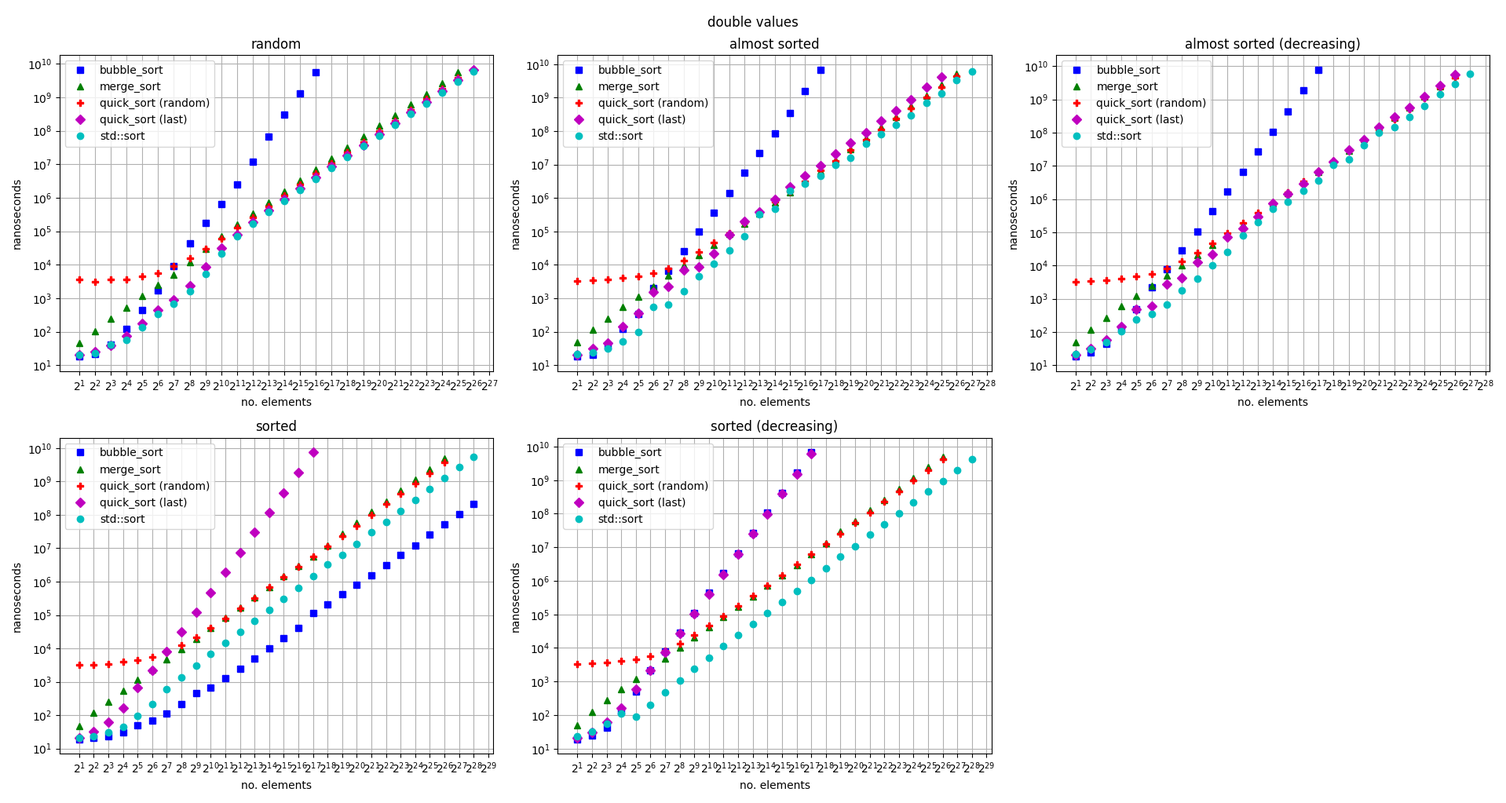
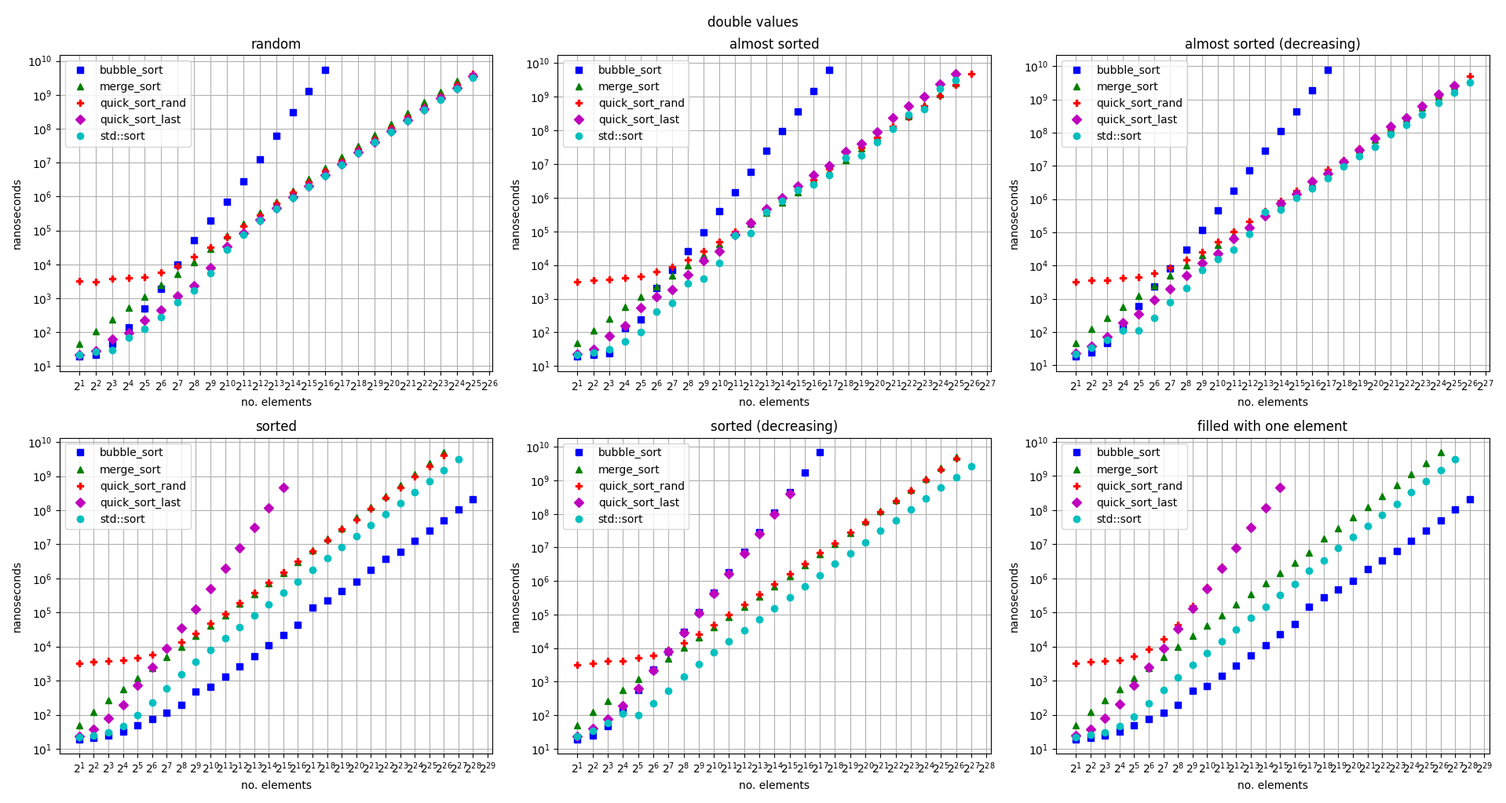
redo benchmarks with input limits

diff --git a/dotpy/unsigned.py b/dotpy/unsigned.py
@@ -14,8 +14,8 @@ plt.grid(True)
 plt.xlabel('no. elements')
 plt.ylabel('nanoseconds')
 plt.title('random')
-plt.plot([2**x for x in range(1, 29)],[41,46,53,71,101,173,291,531,1080,2102,6414,22766,53739,119536,250547,516166,1040570,2353317,5313266,11538258,29789007,75242484,167184438,350951163,725881028,1468671491,2973528957,7294009927,],'bs',[2**x for x in range(1, 27)],[44,56,74,121,227,481,1015,2307,9857,34396,93215,212377,467323,985468,2110536,4376457,9179291,19491924,40461689,83247779,172634610,361186392,743220296,1543068009,3244058954,6769163137,],'g^',[2**x for x in range(1, 17)],[18,23,37,118,452,1770,8065,42553,157459,597666,2295272,10470892,58332083,274792403,1204376394,5058531105,],'rP',[2**x for x in range(1, 26)],[44,104,255,535,1170,2449,5250,11187,26478,72190,160765,348543,735653,1550375,3266603,6908823,14341330,30853445,64727040,135853788,286420936,595336591,1237968698,2591964678,5427277358,],'mD',[2**x for x in range(1, 26)],[3194,3314,3233,3863,4183,5752,8795,15192,28581,56519,116044,239332,510755,1063279,2250046,4689227,9876897,20693847,43227552,88287280,186286138,383699840,800000507,1669307099,3462455196,],'co',[2**x for x in range(1, 27)],[21,28,37,72,170,375,786,2084,8706,28387,73602,168018,361224,827274,1750349,3743636,7639425,16666503,34453423,70162374,148775937,306916854,644498198,1344062530,2870240657,5928433629,],'yX',[2**x for x in range(1, 27)],[22,30,30,55,126,270,652,1466,3497,21098,68039,172011,388802,829159,1757725,3697362,7948505,17004352,35328349,71471668,152111099,320133680,661264651,1374593786,2872916453,5938822096,],'kh',)
-plt.legend(['count_sort', 'radix_sort', 'bubble_sort', 'merge_sort', 'quick_sort (random)', 'quick_sort (last)', 'std::sort', ])
+plt.plot([2**x for x in range(1, 28)],[59,66,78,98,141,226,367,683,1336,2671,6698,21620,56055,125687,269869,563137,1169563,2796932,6118936,11316448,31039316,77724763,171765344,362919284,748377738,1514858214,3055532159,],'bs',[2**x for x in range(1, 26)],[43,52,70,113,212,430,906,1878,10567,35300,90131,207931,441588,968504,2016315,4318402,9078465,19347733,38799105,81532041,168720340,363462212,725290362,1522276878,3163469666,],'g^',[2**x for x in range(1, 17)],[19,21,44,117,418,1664,8067,40353,157737,599462,2318769,11037921,58700019,273661956,1190484845,5028089534,],'rP',[2**x for x in range(1, 26)],[42,101,222,491,1088,2266,4718,10296,25387,67193,152117,330950,680962,1436238,3068181,6428472,13701501,28466068,59708979,123729865,258232998,542657038,1127823349,2373091398,4976608012,],'mD',[2**x for x in range(1, 26)],[3485,3285,3451,3891,4339,6064,9385,16737,31374,64651,135300,279882,585126,1241638,2544471,5433857,11071024,23304374,48121465,100976256,206815799,431262600,893012289,1872530269,3887753691,],'co',[2**x for x in range(1, 26)],[22,28,50,100,206,410,922,2067,6723,27370,71570,171508,382638,828200,1734746,3628839,7688128,16233626,33803150,71039544,148697169,307872926,638031173,1334366210,2813926444,],'yX',[2**x for x in range(1, 26)],[22,25,39,69,134,364,743,1747,3909,21445,69159,170785,385640,825258,1749131,3682420,7785758,16326373,34644231,71296470,148439891,310898576,643330971,1350136327,2825210316,],'kh',)
+plt.legend(['count_sort', 'radix_sort', 'bubble_sort', 'merge_sort', 'quick_sort_rand', 'quick_sort_last', 'std::sort', ])
 plt.subplot(232)
 plt.xscale('log', base=2)
 plt.yscale('log', base=10)
@@ -25,8 +25,8 @@ plt.grid(True)
 plt.xlabel('no. elements')
 plt.ylabel('nanoseconds')
 plt.title('almost sorted')
-plt.plot([2**x for x in range(1, 29)],[45,48,59,75,111,188,317,555,1101,2425,6864,23053,54125,118170,242150,482762,978282,2043797,4173731,8537869,18541138,38197037,75052383,157063528,303677278,608546726,1198555033,2717086464,],'bs',[2**x for x in range(1, 28)],[49,56,92,150,236,480,1110,2279,4633,14279,42134,96786,209825,445628,942766,1876689,3979549,8565823,16200070,34162879,69995088,141649016,289513107,595155037,1252409711,2570698698,5082250143,],'g^',[2**x for x in range(1, 18)],[19,20,44,106,477,903,4438,22583,85983,332639,1292992,5084778,20142757,80289753,318342955,1357755359,5940720546,],'rP',[2**x for x in range(1, 27)],[46,114,271,578,1150,2396,4967,10186,20947,43093,88172,181451,376525,767105,1555798,3200292,6505862,13497938,29171093,61146597,124674727,258957070,531742518,1091908228,2266531842,4749923360,],'mD',[2**x for x in range(1, 27)],[3200,3472,3724,3950,4535,5663,7803,13090,23259,44797,89075,180983,365345,745928,1503975,3107151,6367821,13135197,26828885,53685255,110998129,228224204,469811051,952011396,1924453099,3969372890,],'co',[2**x for x in range(1, 26)],[21,31,44,96,247,1208,2975,3334,18916,22527,82975,178120,362562,948296,2156160,6497215,9156494,25321549,44078253,85681652,181260913,397508926,972542783,1921780624,3628866018,],'yX',[2**x for x in range(1, 28)],[22,25,32,49,135,212,754,2044,10178,8826,32112,74888,165020,396427,1082383,1794852,3582127,17480532,16299276,33668960,80338442,127883102,358885456,630204515,1268402302,2602566951,5098655363,],'kh',)
-plt.legend(['count_sort', 'radix_sort', 'bubble_sort', 'merge_sort', 'quick_sort (random)', 'quick_sort (last)', 'std::sort', ])
+plt.plot([2**x for x in range(1, 29)],[65,70,78,104,147,227,385,703,1364,2824,6767,21406,54501,123039,257025,525614,1055964,2258839,4425672,9308276,19459420,40622756,80279984,158712450,316501121,641852761,1273077687,2659098947,],'bs',[2**x for x in range(1, 27)],[53,61,88,137,247,461,978,1901,4335,15113,43253,102369,216579,447633,964196,1926804,3804718,8031819,16741965,33982186,67080185,140992932,283011133,601078434,1178023619,2513624812,],'g^',[2**x for x in range(1, 18)],[18,20,42,111,386,1143,5828,21474,81313,319278,1251153,5016603,20051812,80176393,319089306,1348676180,5750890779,],'rP',[2**x for x in range(1, 27)],[44,110,241,518,1077,2266,4636,9568,19608,40209,82283,169710,351523,715047,1432984,2939787,5915814,12223663,26586084,55566974,113565857,237004203,484355087,997173514,2074626359,4347055921,],'mD',[2**x for x in range(1, 27)],[3312,3449,3611,3851,4532,5615,8461,14179,26004,50815,102197,203904,419241,855637,1725375,3600960,7412513,15459336,31155889,64950463,133140117,281994354,559721917,1135949116,2343260623,4834251043,],'co',[2**x for x in range(1, 26)],[22,35,55,109,280,950,1305,3788,9169,32375,61181,146542,356146,875150,1615958,3514961,9033512,18193807,36794690,86463416,171719091,385274593,734135200,1634796907,3291828049,],'yX',[2**x for x in range(1, 27)],[22,25,31,47,116,262,1128,3604,4010,9643,33460,86658,194634,428941,954743,2049532,3415329,14179959,16323792,32522805,70014640,178588961,313276445,609621661,1449066590,4030910413,],'kh',)
+plt.legend(['count_sort', 'radix_sort', 'bubble_sort', 'merge_sort', 'quick_sort_rand', 'quick_sort_last', 'std::sort', ])
 plt.subplot(233)
 plt.xscale('log', base=2)
 plt.yscale('log', base=10)
@@ -36,8 +36,8 @@ plt.grid(True)
 plt.xlabel('no. elements')
 plt.ylabel('nanoseconds')
 plt.title('almost sorted (decreasing)')
-plt.plot([2**x for x in range(1, 29)],[42,50,58,78,113,187,310,567,1100,2184,7123,22990,53893,117893,237734,481420,968970,2079141,4181698,8548110,17934091,37531455,75063098,149162697,298883246,600734181,1203088127,2724014228,],'bs',[2**x for x in range(1, 28)],[45,62,94,128,263,512,1120,2306,5075,14752,46334,105824,229172,488944,992236,2087581,4243905,8980896,18958277,37511594,80501899,162452988,343392394,713125219,1419341015,2939882657,6063573136,],'g^',[2**x for x in range(1, 18)],[19,24,46,130,478,2244,8407,31978,124096,483012,1853775,7350570,29339469,117678041,469908851,1955733745,8248266255,],'rP',[2**x for x in range(1, 27)],[48,113,260,574,1207,2424,4869,9923,20659,42428,86924,175720,364777,749615,1500743,3085444,6411030,13356479,28495600,58271969,120941233,253589324,519523970,1076988739,2222440821,4612521877,],'mD',[2**x for x in range(1, 27)],[3408,3453,3696,3958,4586,5663,8168,13224,23711,45685,91987,184796,378353,772875,1558780,3230636,6516615,13175840,27442770,55387910,112407309,233131915,474194846,976845713,1990661670,4092029089,],'co',[2**x for x in range(1, 27)],[21,30,45,89,365,676,1371,3669,8646,23020,44894,109528,258573,569283,1177255,2728380,5481782,12320487,24831730,52580044,105858350,215207547,462762247,977542580,1997208740,4200591903,],'yX',[2**x for x in range(1, 28)],[22,28,48,89,200,358,609,1580,4284,8176,27284,75251,166955,345020,830386,2063542,3695526,7467371,19593823,45116167,72747260,137115050,295890644,643873397,1223494480,2629372572,5436496783,],'kh',)
-plt.legend(['count_sort', 'radix_sort', 'bubble_sort', 'merge_sort', 'quick_sort (random)', 'quick_sort (last)', 'std::sort', ])
+plt.plot([2**x for x in range(1, 29)],[65,69,79,105,151,238,434,748,1448,2793,7074,21844,55379,124405,257301,519714,1046789,2239851,4633573,9141095,19100336,39960671,80169852,158906319,318973573,636896526,1277161101,2678576993,],'bs',[2**x for x in range(1, 27)],[49,51,76,119,248,490,1021,2132,5080,16092,45865,105392,224555,490634,976464,1968249,4202886,8644084,18085685,36116323,74353376,157225884,320797185,682565117,1410802134,2913981617,],'g^',[2**x for x in range(1, 18)],[19,24,46,130,482,2241,8390,32539,124084,477336,1890587,7420089,30093036,121758335,485491354,2021638872,8238110192,],'rP',[2**x for x in range(1, 27)],[46,113,247,544,1123,2238,4695,9791,19716,40210,82580,170919,354967,726428,1471853,2983914,5963607,12544891,26531842,55867278,116085192,241744749,501677723,1031769966,2139371175,4488556791,],'mD',[2**x for x in range(1, 27)],[3370,3566,3672,4027,4657,6052,8895,15072,27626,54000,108455,221323,454772,922737,1891858,3817268,7924327,15827218,33245189,67922998,140383027,285963113,596864441,1209496557,2445032694,5205002845,],'co',[2**x for x in range(1, 27)],[23,36,61,98,261,781,2269,5100,9374,20404,44774,120288,271462,542064,1090436,2656024,5065654,11719499,24466540,49214044,103392977,225850906,451907361,921942749,1947031298,3952118190,],'yX',[2**x for x in range(1, 27)],[22,30,46,89,159,311,754,1635,4186,10667,48661,74797,190200,523775,804253,1788449,4210511,7493099,15207896,58877938,87281529,252056948,301258443,728802591,1436906117,2643295182,],'kh',)
+plt.legend(['count_sort', 'radix_sort', 'bubble_sort', 'merge_sort', 'quick_sort_rand', 'quick_sort_last', 'std::sort', ])
 plt.subplot(234)
 plt.xscale('log', base=2)
 plt.yscale('log', base=10)
@@ -47,8 +47,8 @@ plt.grid(True)
 plt.xlabel('no. elements')
 plt.ylabel('nanoseconds')
 plt.title('sorted')
-plt.plot([2**x for x in range(1, 29)],[44,48,63,75,131,191,322,582,1131,2358,4569,9347,19657,36269,77691,154171,321111,753874,1459370,4017468,8686483,18139744,27444625,54192293,105420412,211769356,426362773,1090994448,],'bs',[2**x for x in range(1, 29)],[49,59,79,130,232,462,1036,2250,4817,10160,21423,45302,95164,198287,419682,864022,1821706,3685097,7831264,16263981,33479079,70617157,148685354,307533335,636306660,1317407856,2729578127,5648098387,],'g^',[2**x for x in range(1, 29)],[19,20,23,28,44,62,100,173,325,631,1239,2406,4769,9664,19247,37879,77295,177665,354180,685453,1365506,2564558,5210373,10383637,20676415,41570984,84214738,170444440,],'rP',[2**x for x in range(1, 27)],[48,111,246,518,983,2140,4517,9162,18624,37881,76923,158190,323251,656580,1323334,2698863,5737321,11806613,24659159,51199271,105771157,220952221,453046504,941808112,1935371822,4009397546,],'mD',[2**x for x in range(1, 27)],[3345,3610,3678,3996,4271,5437,7688,12027,20779,40514,77443,156419,319095,647139,1331316,2735283,5454600,11096593,22570606,46186429,93806373,195652527,387848290,809842187,1634914405,3354802018,],'co',[2**x for x in range(1, 18)],[21,31,60,159,570,2160,8251,30820,119873,472170,1868637,7371409,29204751,115348606,451865720,1799355296,7182934439,],'yX',[2**x for x in range(1, 29)],[22,25,30,45,79,186,522,1238,2847,6391,13954,30146,64454,135235,288351,620641,1265175,2865258,6019352,12557862,26303120,55581988,116438259,245066828,512568325,1071526775,2239605292,4660963472,],'kh',)
-plt.legend(['count_sort', 'radix_sort', 'bubble_sort', 'merge_sort', 'quick_sort (random)', 'quick_sort (last)', 'std::sort', ])
+plt.plot([2**x for x in range(1, 29)],[66,70,86,111,166,264,452,827,1579,3201,6360,12488,25242,49761,100766,211682,419037,1088827,2627261,5430036,10638517,21317878,34194634,65903106,131024745,265575317,529453202,1160866758,],'bs',[2**x for x in range(1, 28)],[50,62,88,142,257,517,1124,2376,5060,10688,22244,47033,96811,197153,417244,848963,1769705,3620928,7483123,15603581,34137841,69107100,143291726,292614325,607941772,1256665086,2569981318,],'g^',[2**x for x in range(1, 29)],[19,20,23,28,44,63,99,177,325,619,1210,2410,4787,9551,19065,37759,75352,171809,339404,684260,1359202,2645282,5144921,10278441,20748579,41291824,83651188,169144394,],'rP',[2**x for x in range(1, 27)],[45,113,245,521,1061,2185,4476,9058,18287,37386,76051,152004,309525,627251,1283777,2583729,5242753,10894853,23484230,49614154,99263503,208658191,425643970,874431303,1812771775,3772491705,],'mD',[2**x for x in range(1, 27)],[3447,3705,3735,3992,4625,5845,8163,13376,24387,46140,92801,189817,386024,791232,1628124,3318524,6716935,13871960,28326157,56693593,120233930,239446415,503434708,1014082595,2066276433,4253930710,],'co',[2**x for x in range(1, 16)],[24,36,72,191,667,2298,8305,31180,120986,475926,1894070,7530406,29817982,114932397,454447002,],'yX',[2**x for x in range(1, 28)],[22,26,29,37,92,236,601,1491,3474,7851,17367,37913,82149,173516,376198,817227,1814016,3889022,8020836,17231850,35007857,74238574,157090927,327661749,690414607,1446437114,3023255683,],'kh',)
+plt.legend(['count_sort', 'radix_sort', 'bubble_sort', 'merge_sort', 'quick_sort_rand', 'quick_sort_last', 'std::sort', ])
 plt.subplot(235)
 plt.xscale('log', base=2)
 plt.yscale('log', base=10)
@@ -58,6 +58,17 @@ plt.grid(True)
 plt.xlabel('no. elements')
 plt.ylabel('nanoseconds')
 plt.title('sorted (decreasing)')
-plt.plot([2**x for x in range(1, 29)],[42,50,59,74,121,195,322,592,1162,2231,4327,8569,16971,33956,68033,136118,278018,680872,1302522,3377713,5965544,13897428,26760695,51976333,104755441,209839726,421721928,1098323593,],'bs',[2**x for x in range(1, 29)],[50,60,78,132,234,488,1063,2312,5019,10272,21775,45877,96011,204658,425304,884302,1822198,3713318,7822914,16391777,34444012,75814609,158718018,332624048,695118268,1451527246,3033684329,6358310826,],'g^',[2**x for x in range(1, 18)],[19,24,69,132,579,2185,8083,31099,121831,478359,1882964,7495983,30137313,117475822,466288879,1859606394,7412934489,],'rP',[2**x for x in range(1, 27)],[49,115,257,556,1169,2356,4838,10201,19998,40668,82580,166534,344141,694676,1410191,2852577,6568550,13154256,26533991,54994623,112766367,236397825,485087345,1005266495,2070583438,4304911047,],'mD',[2**x for x in range(1, 27)],[3356,3462,3641,3982,4624,5733,8081,12935,22893,44114,84924,169377,345172,697145,1431651,2892722,6559137,11648038,24963777,49333177,100489498,206335580,421723786,865755527,1749735492,3583317881,],'co',[2**x for x in range(1, 18)],[21,29,54,149,474,1914,6830,26013,97990,394184,1527870,6072015,23792018,93370296,370210218,1469825795,5868404203,],'yX',[2**x for x in range(1, 29)],[24,32,93,97,85,184,451,1030,2303,5057,11071,23864,50187,106405,227796,477500,999737,2275513,4718283,9887896,20327477,42059357,88831617,186514028,389602943,815701294,1697638115,3559937644,],'kh',)
-plt.legend(['count_sort', 'radix_sort', 'bubble_sort', 'merge_sort', 'quick_sort (random)', 'quick_sort (last)', 'std::sort', ])
+plt.plot([2**x for x in range(1, 29)],[64,72,81,110,164,268,452,829,1571,3088,5773,11601,23311,46842,94515,185980,381334,966330,1705049,3683253,7980888,17353964,34354874,65350598,131729028,264432063,529604820,1159548393,],'bs',[2**x for x in range(1, 28)],[48,58,76,119,209,416,929,1974,4333,8731,18213,39640,84990,174504,373037,750665,1586506,3181102,6698247,14183730,30139270,65871509,138192036,288945086,613257659,1273229782,2646328935,],'g^',[2**x for x in range(1, 18)],[20,25,45,133,579,2175,8197,31150,121988,440590,1868769,7586168,30607833,121583025,484229032,1928156205,7393220097,],'rP',[2**x for x in range(1, 27)],[45,111,245,530,1097,2265,4629,9405,19168,35663,80029,163260,334990,675552,1371161,2802054,5654261,12226712,25370229,53022850,109526033,228121122,469247861,968438956,2011724345,4186115847,],'mD',[2**x for x in range(1, 27)],[3409,3542,3735,4046,4660,6164,8921,14817,26882,49214,103091,208848,423218,866651,1737593,3581415,7143554,15150858,30915117,62477250,129256297,258416446,532479646,1085817466,2216805232,4589054112,],'co',[2**x for x in range(1, 16)],[22,34,69,170,575,1926,6507,23808,90071,335818,1353463,5419379,21434748,83360867,329721964,],'yX',[2**x for x in range(1, 29)],[23,33,53,98,96,216,514,1214,2712,5894,13159,29095,61992,130916,273027,592895,1285811,2790290,5892644,12447061,26334969,53435605,112544005,236289257,493370219,1029223518,2145603705,4471852028,],'kh',)
+plt.legend(['count_sort', 'radix_sort', 'bubble_sort', 'merge_sort', 'quick_sort_rand', 'quick_sort_last', 'std::sort', ])
+plt.subplot(236)
+plt.xscale('log', base=2)
+plt.yscale('log', base=10)
+plt.gca().set_xticks(xloc)
+plt.gca().set_yticks(yloc)
+plt.grid(True)
+plt.xlabel('no. elements')
+plt.ylabel('nanoseconds')
+plt.title('filled with one element')
+plt.plot([2**x for x in range(1, 29)],[64,72,78,96,129,222,399,761,1500,2899,5780,11454,23383,46143,93715,187788,390010,890467,1755861,3760055,8258164,16941109,35646525,68932147,134808514,271192811,541116033,1180426255,],'bs',[2**x for x in range(1, 28)],[55,59,73,98,213,366,696,1430,3011,6522,14087,30687,71118,150649,319402,683547,1444988,2993908,6531442,15195885,33237250,69691192,145868725,302459353,630668358,1309006001,2716253650,],'g^',[2**x for x in range(1, 29)],[19,21,23,28,44,63,100,177,329,629,1214,2408,4814,9582,18996,37852,75926,174620,342856,672060,1334533,2684236,5183752,10307915,20765511,41736005,84410296,169589268,],'rP',[2**x for x in range(1, 27)],[45,110,242,510,1067,2191,4490,9194,18521,38677,78746,161325,324178,664240,1374632,2798096,5707665,11785191,25401462,53145009,110196429,230512644,472341919,969744055,2026006606,4190193217,],'mD',[2**x for x in range(1, 16)],[3346,3498,3700,4023,4947,8107,17467,51293,177924,669064,2609940,10156665,40062136,158630796,635691525,],'co',[2**x for x in range(1, 16)],[23,36,72,190,675,2332,8446,32006,125545,483151,1877898,7438924,29128880,114043957,451919942,],'yX',[2**x for x in range(1, 29)],[22,25,29,37,74,190,404,902,2023,4478,9850,20845,45453,96900,210430,443278,993995,2179806,4583590,9564787,20172014,42460118,90068863,187574578,395953708,828098733,1744919033,3652527801,],'kh',)
+plt.legend(['count_sort', 'radix_sort', 'bubble_sort', 'merge_sort', 'quick_sort_rand', 'quick_sort_last', 'std::sort', ])
 plt.show()

diff --git a/dotpy/stdstring.py b/dotpy/stdstring.py
@@ -11,53 +11,64 @@ plt.yscale('log', base=10)
 plt.gca().set_xticks(xloc)
 plt.gca().set_yticks(yloc)
 plt.grid(True)
-plt.xlabel('no. bytes in container (x 4)')
+plt.xlabel('no. bytes in input (x 4)')
 plt.ylabel('nanoseconds')
 plt.title('random')
-plt.plot([2**x for x in range(1, 28)],[23,47,90,172,328,739,867,2257,5312,10820,21503,43691,90761,169841,344882,721361,1531696,3280629,6764507,15115497,36192211,78717758,166996608,360951074,770035031,1663979355,3647368013,],'bs',[2**x for x in range(1, 29)],[62,174,310,475,836,970,1526,2399,3839,5734,8996,14115,22831,35152,54373,83556,131136,192982,288356,413535,659079,972648,1711652,2454012,3863494,5566141,9254772,14082696,],'g^',[2**x for x in range(1, 29)],[3243,3338,3433,3580,3819,4283,4720,5656,6845,8702,11332,15355,21125,29912,43894,66449,98323,152251,247118,447407,878683,1576661,2958188,5291013,9433218,17218148,32920104,61748322,],'rP',[2**x for x in range(1, 29)],[29,53,88,134,257,426,664,931,1530,2295,4576,6026,11626,18100,29715,48359,82446,126469,237194,413420,809376,1544745,2746434,5126733,9463080,16918884,32783821,62263116,],'mD',[2**x for x in range(1, 29)],[32,65,125,194,412,622,736,1094,1462,2735,3796,5562,9691,16132,26365,42611,67545,104370,154299,233068,381160,552315,980995,1524841,2323214,3632452,5621665,9736769,],'co',)
-plt.legend(['bubble_sort', 'merge_sort', 'quick_sort (random)', 'quick_sort (last)', 'std::sort', ])
+plt.plot([2**x for x in range(1, 28)],[21,54,104,168,388,478,1229,2082,4444,10293,20556,41323,89161,157358,315165,669060,1472086,3188930,6987520,14326762,35424902,76493840,159299389,340118278,723133771,1576535079,3469508812,],'bs',[2**x for x in range(1, 29)],[56,149,287,401,735,852,1358,2001,3053,4606,7431,11442,18394,28929,46813,72109,115888,162880,247767,367690,569535,848738,1484703,2142935,3302943,4830126,7719322,11601172,],'g^',[2**x for x in range(1, 29)],[3215,3399,3270,3424,3644,4115,5460,5885,7593,9176,12185,16782,24339,33672,48214,75775,114892,175590,308387,531141,1004328,1925194,3227989,5625023,10024158,18569341,34565048,63927415,],'rP',[2**x for x in range(1, 29)],[34,86,123,159,316,722,976,1481,2096,3294,5515,8461,14627,22647,35872,55000,90671,140073,248918,502811,1022981,1873729,3040316,5406363,9522554,17655169,33323712,62128892,],'mD',[2**x for x in range(1, 29)],[30,68,110,239,486,530,621,986,1619,2538,3955,6354,9589,14967,24017,40843,63576,103415,152708,246619,379574,562213,985090,1545210,2327195,3554009,5605352,9781177,],'co',)
+plt.legend(['bubble_sort', 'merge_sort', 'quick_sort_rand', 'quick_sort_last', 'std::sort', ])
 plt.subplot(232)
 plt.xscale('log', base=2)
 plt.yscale('log', base=10)
 plt.gca().set_xticks(xloc)
 plt.gca().set_yticks(yloc)
 plt.grid(True)
-plt.xlabel('no. bytes in container (x 4)')
+plt.xlabel('no. bytes in input (x 4)')
 plt.ylabel('nanoseconds')
 plt.title('almost sorted')
-plt.plot([2**x for x in range(1, 29)],[28,30,72,102,158,670,788,1912,4056,5566,11729,25372,55979,110802,217792,445797,901066,1866003,4766899,8750854,21100440,44478184,92013718,186037515,388302529,841041230,2003717111,5441250685,],'bs',[2**x for x in range(1, 29)],[66,182,329,497,817,1001,1475,2341,3655,5227,8016,11926,17686,25634,39290,56997,86059,120011,182621,259520,406763,583975,1126331,1540331,2401640,3366772,5348754,7757089,],'g^',[2**x for x in range(1, 29)],[3398,3504,3549,3720,3913,4340,4782,5519,6561,7989,10435,13383,17940,25220,38462,54835,80353,121493,214352,420970,834348,1574752,2636799,4723273,8710066,16116090,30227151,56795145,],'rP',[2**x for x in range(1, 29)],[32,76,101,169,382,830,1226,1897,3841,4726,8145,12649,23432,17716,32517,45763,80905,159331,444953,798575,1175205,2129195,3677583,8405485,11829677,21865163,41031740,74585419,],'mD',[2**x for x in range(1, 29)],[38,58,100,144,200,298,492,998,2233,1899,3625,8344,9458,13961,27147,32535,48586,75860,106534,405712,251744,714875,797052,2887187,2833344,3864338,5963877,6071764,],'co',)
-plt.legend(['bubble_sort', 'merge_sort', 'quick_sort (random)', 'quick_sort (last)', 'std::sort', ])
+plt.plot([2**x for x in range(1, 29)],[24,29,57,156,253,653,571,1121,3227,3880,13251,26802,50766,100016,201911,420788,837128,1838180,3857775,8767142,18930763,43949474,88311609,184017955,386656064,825811247,1993595420,5493087991,],'bs',[2**x for x in range(1, 29)],[61,160,286,450,707,866,1251,1980,3133,4402,6757,9653,14885,21699,32307,47005,68894,96683,137080,208573,326767,545549,944263,1326894,2086919,2875467,4465498,6521724,],'g^',[2**x for x in range(1, 29)],[3055,3357,3356,3829,4010,4196,5033,5497,6889,8796,11297,15038,20619,29527,43497,64343,101644,141506,247968,520436,1030239,1584508,2850530,5087738,9324340,16954088,32609509,69884094,],'rP',[2**x for x in range(1, 29)],[35,90,134,270,379,873,1619,2468,3709,8051,5513,23953,22677,37438,44345,82212,116542,202347,351610,861349,1313774,2632994,4011778,7311852,13360623,22870136,42543175,101710384,],'mD',[2**x for x in range(1, 29)],[34,59,91,156,212,282,460,580,1282,1995,3727,12297,9965,25464,19931,41902,73219,98301,113692,170538,295910,411640,764814,1480300,1756438,2578898,4134533,22626274,],'co',)
+plt.legend(['bubble_sort', 'merge_sort', 'quick_sort_rand', 'quick_sort_last', 'std::sort', ])
 plt.subplot(233)
 plt.xscale('log', base=2)
 plt.yscale('log', base=10)
 plt.gca().set_xticks(xloc)
 plt.gca().set_yticks(yloc)
 plt.grid(True)
-plt.xlabel('no. bytes in container (x 4)')
+plt.xlabel('no. bytes in input (x 4)')
 plt.ylabel('nanoseconds')
 plt.title('almost sorted (decreasing)')
-plt.plot([2**x for x in range(1, 29)],[26,56,125,263,610,909,1661,3077,6167,11970,23002,46524,92150,179804,362776,717762,1488946,3010469,6073438,13258447,28087198,66699634,135639984,281855976,568617470,1177786917,2494928368,6152873240,],'bs',[2**x for x in range(1, 29)],[69,204,351,514,891,1107,1631,2587,4052,5746,9139,12562,19785,27615,42674,60582,95264,130539,189044,262518,409428,607591,1162735,1635537,2517108,3558725,5630916,8009168,],'g^',[2**x for x in range(1, 29)],[3408,3538,3621,3816,4074,4501,5083,5831,6953,8519,11042,14679,19398,26995,40309,56387,86275,125161,214403,429541,784762,1484025,2550011,4703016,8669982,15880533,30531719,57968908,],'rP',[2**x for x in range(1, 29)],[31,59,89,154,333,900,973,2584,2953,4349,6956,11498,13118,21541,34550,53503,74404,132490,247236,541297,1055929,1810800,3564666,6165981,11816346,21418796,40532229,76788369,],'mD',[2**x for x in range(1, 29)],[36,76,143,233,467,388,633,2106,1992,2058,3492,4470,7929,12109,18430,28934,42982,67988,96037,159913,223988,366463,824221,1183075,1749776,2426890,5008328,6623482,],'co',)
-plt.legend(['bubble_sort', 'merge_sort', 'quick_sort (random)', 'quick_sort (last)', 'std::sort', ])
+plt.plot([2**x for x in range(1, 29)],[23,52,129,242,599,799,1497,2875,5762,10799,21077,42109,84603,165981,333260,670581,1345009,2989145,5877128,13614517,29026868,68314639,134592070,279236298,564323043,1176264253,2467624994,6189301640,],'bs',[2**x for x in range(1, 29)],[64,180,308,510,753,932,1456,2101,3509,4902,7789,10750,15846,23826,35030,50661,74327,102482,149369,227432,339054,517143,991266,1471636,2150321,3059540,4756142,6967335,],'g^',[2**x for x in range(1, 29)],[3297,3536,3787,3817,4247,4534,5127,6631,8232,9288,13135,16234,22355,31127,47248,70413,100299,157426,248736,494341,886610,1850602,2815582,5103614,9070077,16902318,32503368,59363015,],'rP',[2**x for x in range(1, 29)],[37,96,178,217,615,810,1258,2260,4172,6010,8082,12140,31021,42786,51880,74688,133074,168382,333441,638154,1206257,2202198,3803894,6722367,12819121,22872626,42572634,83032847,],'mD',[2**x for x in range(1, 29)],[35,69,131,202,423,430,626,721,1843,2303,3584,6836,8178,12285,18776,29101,43741,97948,153168,174660,239832,392429,733017,1160256,1805014,2647235,4249163,6768069,],'co',)
+plt.legend(['bubble_sort', 'merge_sort', 'quick_sort_rand', 'quick_sort_last', 'std::sort', ])
 plt.subplot(234)
 plt.xscale('log', base=2)
 plt.yscale('log', base=10)
 plt.gca().set_xticks(xloc)
 plt.gca().set_yticks(yloc)
 plt.grid(True)
-plt.xlabel('no. bytes in container (x 4)')
+plt.xlabel('no. bytes in input (x 4)')
 plt.ylabel('nanoseconds')
 plt.title('sorted')
-plt.plot([2**x for x in range(1, 29)],[23,31,41,50,67,94,122,130,178,238,326,425,601,845,1351,2138,3186,4420,5978,20586,46729,81406,163991,232620,363938,494087,678923,891371,],'bs',[2**x for x in range(1, 29)],[69,193,341,496,826,1013,1528,2376,3741,5430,8446,11607,17417,24858,38083,54554,86260,119977,174786,240935,370633,577714,1078416,1495537,2312218,3284081,5141706,7625268,],'g^',[2**x for x in range(1, 29)],[3446,3583,3644,3752,4156,4488,5081,5768,6815,8219,10485,13363,17817,24258,35482,53156,79296,119524,200708,417027,765919,1399268,2524199,4599571,8572214,15743131,30075212,56860118,],'rP',[2**x for x in range(1, 29)],[31,78,147,259,531,1150,1928,3245,6100,11127,21022,39833,79573,155376,313046,628051,1342915,2696481,5238565,11656688,24294085,56990179,116481212,236579831,477260898,977364312,2093067789,5347494910,],'mD',[2**x for x in range(1, 29)],[34,62,89,130,190,210,468,543,1301,1698,2975,4044,7003,9444,15790,21701,36001,48669,74848,99297,167669,257843,562762,895532,1346970,1941583,3117556,5126279,],'co',)
-plt.legend(['bubble_sort', 'merge_sort', 'quick_sort (random)', 'quick_sort (last)', 'std::sort', ])
+plt.plot([2**x for x in range(1, 29)],[23,31,41,50,69,90,114,133,171,230,298,410,565,942,1274,2166,3074,4408,6134,21511,54667,86846,168367,239761,359069,492333,712263,921815,],'bs',[2**x for x in range(1, 29)],[64,173,302,438,734,884,1304,2087,3208,4602,7037,9952,14908,21832,32506,47243,69194,96778,143573,204592,303933,467555,933992,1279399,1994742,2781266,4314106,6365876,],'g^',[2**x for x in range(1, 29)],[3214,3587,3470,3911,4190,4790,5261,5762,7431,9231,11976,16237,21919,29994,46172,63047,105065,155347,258664,491624,979282,1757086,2797218,5072443,9138834,16596600,31211385,58161472,],'rP',[2**x for x in range(1, 28)],[38,99,187,306,623,1357,2294,4145,7811,15308,27172,53232,112685,216810,413225,873728,1751604,3528612,7715743,14647469,32800969,73262075,149258211,292302404,607700989,1251981054,2653932699,],'mD',[2**x for x in range(1, 29)],[34,63,88,129,186,200,447,524,1247,1661,2881,3942,7919,9314,16628,20858,34200,45825,70112,98393,176607,249127,572025,829383,1328444,1987163,3120972,5080843,],'co',)
+plt.legend(['bubble_sort', 'merge_sort', 'quick_sort_rand', 'quick_sort_last', 'std::sort', ])
 plt.subplot(235)
 plt.xscale('log', base=2)
 plt.yscale('log', base=10)
 plt.gca().set_xticks(xloc)
 plt.gca().set_yticks(yloc)
 plt.grid(True)
-plt.xlabel('no. bytes in container (x 4)')
+plt.xlabel('no. bytes in input (x 4)')
 plt.ylabel('nanoseconds')
 plt.title('sorted (decreasing)')
-plt.plot([2**x for x in range(1, 29)],[28,63,129,264,618,898,1712,3081,6443,13250,24347,48983,97781,191143,383204,752075,1532666,3166510,6300609,13668706,28756959,68965099,137341860,282446956,569076951,1174077810,2466531559,5975328900,],'bs',[2**x for x in range(1, 29)],[71,198,357,504,881,1030,1656,2460,4010,5786,8862,12722,19507,27588,43280,60264,92306,123751,180164,259519,422947,608535,1076172,1519725,2372687,3312785,5185531,7228354,],'g^',[2**x for x in range(1, 29)],[3551,3550,3764,3828,4087,4569,5173,6035,7211,9216,11287,14561,19852,26955,39527,57817,83786,127103,210341,436232,765323,1399885,2489564,4636095,8496362,16086952,30575578,57227290,],'rP',[2**x for x in range(1, 29)],[32,76,136,223,476,1051,1764,2903,5468,9803,18377,34503,66971,128283,262412,522103,1057617,2208106,4218324,9468079,20171157,49469342,99903416,204527507,414947437,862591198,1849072611,4816156765,],'mD',[2**x for x in range(1, 29)],[38,75,125,202,415,425,591,699,1285,1620,2793,3715,6227,8236,14042,18425,29533,39001,58382,86712,152425,218224,519621,786973,1238423,1813276,3050286,4929367,],'co',)
-plt.legend(['bubble_sort', 'merge_sort', 'quick_sort (random)', 'quick_sort (last)', 'std::sort', ])
+plt.plot([2**x for x in range(1, 29)],[25,61,129,249,587,814,1479,2676,5492,10384,20351,42972,83571,163219,323016,680199,1370021,3189051,6253086,14061893,28620329,66888099,133153965,275271607,552940222,1145886813,2402169591,6021313401,],'bs',[2**x for x in range(1, 29)],[63,170,307,442,743,891,1348,2064,3229,4688,7401,10033,15971,22539,35237,48910,70949,97834,144519,227718,336765,496502,918426,1286640,1972274,2808643,4355640,6088805,],'g^',[2**x for x in range(1, 29)],[3171,3466,3987,3596,3961,4956,4987,5753,7254,9725,11666,17067,22124,30910,44455,66077,95639,151201,235083,530246,862810,1789010,2740764,4965198,9008870,16613755,31434339,58876423,],'rP',[2**x for x in range(1, 29)],[37,94,173,284,620,1232,2095,3662,6863,12363,23996,46394,95905,182346,356620,712465,1490662,3171711,6434828,14297864,28774566,65322106,131687963,270119350,542992873,1113761933,2379386838,6126056417,],'mD',[2**x for x in range(1, 29)],[36,75,129,203,415,361,550,642,1106,1454,2557,3507,5744,7741,12649,17376,27895,36403,58016,87531,167038,221086,531944,778758,1240425,1874566,2953177,4935088,],'co',)
+plt.legend(['bubble_sort', 'merge_sort', 'quick_sort_rand', 'quick_sort_last', 'std::sort', ])
+plt.subplot(236)
+plt.xscale('log', base=2)
+plt.yscale('log', base=10)
+plt.gca().set_xticks(xloc)
+plt.gca().set_yticks(yloc)
+plt.grid(True)
+plt.xlabel('no. bytes in input (x 4)')
+plt.ylabel('nanoseconds')
+plt.title('filled with one element')
+plt.plot([2**x for x in range(1, 29)],[24,34,46,54,82,117,153,210,280,380,709,1042,1491,2119,4750,9403,16436,39383,76380,230923,539496,1367591,2872856,5588500,9488604,18790547,37608798,74766345,],'bs',[2**x for x in range(1, 29)],[64,174,316,453,813,1010,1545,2345,3734,5422,9535,13471,19489,27468,52275,80543,134860,245830,429621,862132,2199421,5018689,8862079,19554504,43361315,92953406,203924517,428987103,],'g^',[2**x for x in range(1, 24)],[3190,3579,3846,3807,4676,5601,7030,10576,15080,24253,50898,104889,194239,370871,1114504,2803664,7356565,18051079,51638199,140504480,506837398,1942484126,6301662976,],'rP',[2**x for x in range(1, 24)],[38,100,198,325,697,1457,2584,4689,9524,17519,41029,82112,173192,358965,1008759,2481572,6673598,18270439,47032589,131820350,447037715,1733627325,5764244238,],'mD',[2**x for x in range(1, 29)],[36,68,101,142,212,255,490,630,1204,1578,3849,5673,9938,14115,35214,57596,122418,246001,514166,1186654,3373988,7588000,18391785,36019415,81102941,172771941,390226308,810329186,],'co',)
+plt.legend(['bubble_sort', 'merge_sort', 'quick_sort_rand', 'quick_sort_last', 'std::sort', ])
 plt.show()

diff --git a/dotpy/double.py b/dotpy/double.py
@@ -14,8 +14,8 @@ plt.grid(True)
 plt.xlabel('no. elements')
 plt.ylabel('nanoseconds')
 plt.title('random')
-plt.plot([2**x for x in range(1, 17)],[18,22,42,124,419,1740,8856,43572,175488,637092,2564815,12444333,67188267,305318318,1336077460,5602269653,],'bs',[2**x for x in range(1, 26)],[45,106,236,508,1117,2436,5053,11611,30199,74843,159908,349576,705253,1526972,3437368,7055987,15083142,32004079,67484613,138799472,290902239,598189821,1264773578,2649752596,5595792916,],'g^',[2**x for x in range(1, 26)],[3482,3265,3823,3666,4619,6051,8951,15514,29801,63740,127711,274740,571702,1202816,2823283,5367271,10714998,22819274,45895382,95875209,198695857,418865144,864344499,1799799172,3852020508,],'rP',[2**x for x in range(1, 27)],[20,29,39,85,163,405,1052,2704,8871,31789,84965,195303,428546,924150,2009302,4263332,9455696,19663952,38734965,80450522,166480937,348635165,723789803,1516182402,3257093723,6919037043,],'mD',[2**x for x in range(1, 27)],[22,27,35,56,134,304,669,1565,4983,23257,73173,174581,377243,851402,1832196,3786785,7994677,17829535,35037001,72348526,153330818,317066551,662497633,1401606336,2920746104,6111835634,],'co',)
-plt.legend(['bubble_sort', 'merge_sort', 'quick_sort (random)', 'quick_sort (last)', 'std::sort', ])
+plt.plot([2**x for x in range(1, 17)],[19,22,45,137,501,1917,9879,51235,197317,717212,2832368,12331387,62961697,299317994,1310021755,5538803118,],'bs',[2**x for x in range(1, 25)],[45,109,236,515,1090,2420,5211,11754,29178,70396,159090,335842,699809,1480069,3358640,6841450,14679347,31183390,65536954,136933932,283512579,594548168,1240173441,2618434791,],'g^',[2**x for x in range(1, 26)],[3218,3088,3764,3897,4270,5758,9106,16386,31748,64328,137317,286338,628150,1317360,2629259,5732687,11447462,24718854,50509190,103421938,216234926,450457473,930853593,1972835914,4128510048,],'rP',[2**x for x in range(1, 26)],[22,28,63,96,230,459,1200,2394,7889,33460,82505,207805,451042,959204,2086883,4404939,9268064,20379228,40565892,83642205,175548661,368867871,776793939,1633034870,3463505154,],'mD',[2**x for x in range(1, 26)],[21,27,30,70,122,284,760,1687,5477,26610,75193,190661,428333,918036,1975344,4141580,8768704,19600840,39684217,80541748,168147980,349266429,729112378,1542908587,3229056275,],'co',)
+plt.legend(['bubble_sort', 'merge_sort', 'quick_sort_rand', 'quick_sort_last', 'std::sort', ])
 plt.subplot(232)
 plt.xscale('log', base=2)
 plt.yscale('log', base=10)
@@ -25,8 +25,8 @@ plt.grid(True)
 plt.xlabel('no. elements')
 plt.ylabel('nanoseconds')
 plt.title('almost sorted')
-plt.plot([2**x for x in range(1, 18)],[18,21,38,102,539,1987,6182,24666,93539,358689,1430227,5707069,22768572,88867467,353071807,1597606007,6990000936,],'bs',[2**x for x in range(1, 27)],[50,118,257,564,1155,2375,4785,10193,20284,42482,85739,173793,354138,729518,1485706,3035560,7366331,13801403,30641635,63294986,130749008,269769091,561251018,1191479354,2583895940,5228079118,],'g^',[2**x for x in range(1, 27)],[3112,3457,4119,4033,4309,5382,8026,13472,25154,46983,94387,193597,395753,801833,1603695,3357814,6669939,14333848,28060099,55868428,117300414,239982664,496877511,1028831443,2120562630,4389785742,],'rP',[2**x for x in range(1, 26)],[21,33,47,112,383,1365,2283,4804,9578,33530,74502,198449,427178,1021455,2607260,3992390,9565072,22720232,48485942,95629607,195229690,432566190,1032589632,2009413587,5447759881,],'mD',[2**x for x in range(1, 28)],[21,24,31,48,116,441,673,1616,4187,12508,36075,75669,240158,923341,2062351,2205387,3758322,8797550,32361412,68859443,71088281,142374030,391500792,685001483,1317725269,2724923136,6459810353,],'co',)
-plt.legend(['bubble_sort', 'merge_sort', 'quick_sort (random)', 'quick_sort (last)', 'std::sort', ])
+plt.plot([2**x for x in range(1, 18)],[19,22,24,137,245,2041,7298,25216,91326,403165,1445486,5901366,24824295,95017076,360095142,1489015619,6446993383,],'bs',[2**x for x in range(1, 26)],[47,116,256,556,1144,2358,4848,9859,20269,42039,85867,172990,350316,712713,1441440,3339225,6323257,13467228,28929561,62982277,130723590,271457983,566978417,1197173643,2518703747,],'g^',[2**x for x in range(1, 27)],[3117,3487,3715,4081,4576,6300,8678,14431,26225,49715,98896,199448,420558,854629,1751446,3358986,7240097,15237515,30561246,61014366,130320016,257202117,530325591,1096665358,2302040128,4742015512,],'rP',[2**x for x in range(1, 26)],[23,31,77,161,530,1123,1872,5250,13870,26320,80926,175946,460692,1002055,2171938,4842591,9185222,23402654,41390638,91702179,234874909,522332790,1008850289,2448164405,4929750112,],'mD',[2**x for x in range(1, 26)],[22,25,31,54,102,419,733,2857,3912,11292,76638,91030,369891,818315,1710187,2458904,4770717,15191981,18416649,43958102,113333691,292579933,419441500,1694887216,3177892960,],'co',)
+plt.legend(['bubble_sort', 'merge_sort', 'quick_sort_rand', 'quick_sort_last', 'std::sort', ])
 plt.subplot(233)
 plt.xscale('log', base=2)
 plt.yscale('log', base=10)
@@ -36,8 +36,8 @@ plt.grid(True)
 plt.xlabel('no. elements')
 plt.ylabel('nanoseconds')
 plt.title('almost sorted (decreasing)')
-plt.plot([2**x for x in range(1, 18)],[18,26,43,133,516,2160,7996,29349,114482,450446,1728851,6932174,27200833,107240112,427128571,1855208587,7954109156,],'bs',[2**x for x in range(1, 27)],[50,121,268,594,1213,2494,5150,10399,21777,44200,92001,182120,379274,761783,1545945,3162745,6675997,14166665,30714569,64525820,135215167,279733471,573133275,1204499438,2531612527,5324208827,],'g^',[2**x for x in range(1, 27)],[3112,3426,4102,4092,4459,5775,8388,13818,25156,48142,95437,202041,411787,847286,1653030,3434055,7217079,15425564,30733287,61100628,126583879,253969758,523398073,1105455915,2311570056,4661654250,],'rP',[2**x for x in range(1, 27)],[22,27,60,110,498,754,1843,3797,9686,25250,64485,132654,381583,683737,1489751,3241198,7329573,14126394,29014073,63599979,127471223,290597469,595513054,1208988588,2666004380,5608553391,],'mD',[2**x for x in range(1, 28)],[22,32,56,107,98,262,884,1911,3572,10304,27539,76788,230744,743208,812488,1684055,4215120,10054571,15498858,32768107,77963199,293320616,509755406,684378116,1296504327,2791546519,6318640930,],'co',)
-plt.legend(['bubble_sort', 'merge_sort', 'quick_sort (random)', 'quick_sort (last)', 'std::sort', ])
+plt.plot([2**x for x in range(1, 18)],[18,24,46,133,582,2280,8125,29894,116424,466406,1800401,7405273,27828552,110243236,439295099,1852961693,7905079950,],'bs',[2**x for x in range(1, 26)],[47,120,264,556,1191,2422,4943,10265,20738,42726,86548,173965,361487,726333,1482008,3093181,6474570,13784571,29941222,62706243,131667082,272069372,565934085,1190606212,2510214941,],'g^',[2**x for x in range(1, 27)],[3190,3612,3610,4179,4364,5801,8528,14532,26182,50747,102231,208000,431794,882649,1770056,3656171,7522375,15005685,32924592,67693741,133189547,279988989,569021351,1219831755,2463164940,5012459309,],'rP',[2**x for x in range(1, 26)],[23,37,72,187,354,920,1944,4985,12044,23046,65993,138575,314336,750737,1457036,3376749,5837982,13567016,29937254,67870383,150952640,277279892,636478948,1469230779,2646429176,],'mD',[2**x for x in range(1, 27)],[22,34,58,108,112,261,781,2049,7242,15510,29554,91243,418654,490205,1086763,2051660,4340537,9525576,19775484,38244205,88782638,173304560,353708908,769874268,1598630697,3196713736,],'co',)
+plt.legend(['bubble_sort', 'merge_sort', 'quick_sort_rand', 'quick_sort_last', 'std::sort', ])
 plt.subplot(234)
 plt.xscale('log', base=2)
 plt.yscale('log', base=10)
@@ -47,8 +47,8 @@ plt.grid(True)
 plt.xlabel('no. elements')
 plt.ylabel('nanoseconds')
 plt.title('sorted')
-plt.plot([2**x for x in range(1, 29)],[19,21,23,30,54,73,115,224,484,673,1334,2595,5254,10591,22601,45455,138964,208383,417188,782004,1608193,3232213,6346998,12466249,25355199,51011261,103491684,213005249,],'bs',[2**x for x in range(1, 27)],[50,118,256,543,1425,2322,4907,9785,20286,41087,82620,171081,346662,725881,1434887,2931876,6526384,14008340,28842501,59737788,126297666,254723086,532383178,1121988782,2368698917,4947375031,],'g^',[2**x for x in range(1, 27)],[3128,3394,3780,4158,4867,5842,8439,13562,22241,43922,86006,170219,348065,692097,1408040,2900102,5518713,11248921,24159234,50817299,100131171,212574330,427129060,873929736,1814136009,3652136279,],'rP',[2**x for x in range(1, 18)],[21,33,65,173,678,2348,8693,32313,128175,513836,1968007,7872235,30905680,120531648,474410743,1902322236,7606876291,],'mD',[2**x for x in range(1, 29)],[21,25,31,45,99,224,616,1391,3118,6864,15341,32927,68488,147373,307923,655288,1456366,3836315,7190303,13856543,30813435,62537666,130825606,279588714,595046516,1251664636,2646422845,5618095593,],'co',)
-plt.legend(['bubble_sort', 'merge_sort', 'quick_sort (random)', 'quick_sort (last)', 'std::sort', ])
+plt.plot([2**x for x in range(1, 29)],[19,21,25,32,50,73,113,192,480,671,1304,2628,5223,10778,22328,43498,139757,227804,430248,790818,1807266,3643147,6118046,12445446,25035500,51150664,102583639,212457583,],'bs',[2**x for x in range(1, 27)],[49,119,266,552,1149,2360,4871,9887,20440,40931,82969,179066,349538,705555,1435308,2933940,6501746,14906895,29498740,60805446,126032717,258829062,538004337,1133665887,2384954715,5008810392,],'g^',[2**x for x in range(1, 27)],[3143,3520,3817,3951,4771,5679,8743,13649,24017,47223,91555,190015,386427,759450,1500979,3126926,6313659,12955663,27425653,53095694,109972021,230245015,469301638,953766017,1948976340,4052526588,],'rP',[2**x for x in range(1, 16)],[23,38,78,198,736,2510,9034,34609,127086,500330,1976046,7748495,30519337,119425345,471002171,],'mD',[2**x for x in range(1, 28)],[22,25,31,46,100,231,591,1549,3520,8047,17476,37806,80004,171961,383601,786379,1747207,3958772,8267058,17432687,35708166,74869925,157568574,335340217,708805849,1502649657,3153955868,],'co',)
+plt.legend(['bubble_sort', 'merge_sort', 'quick_sort_rand', 'quick_sort_last', 'std::sort', ])
 plt.subplot(235)
 plt.xscale('log', base=2)
 plt.yscale('log', base=10)
@@ -58,6 +58,17 @@ plt.grid(True)
 plt.xlabel('no. elements')
 plt.ylabel('nanoseconds')
 plt.title('sorted (decreasing)')
-plt.plot([2**x for x in range(1, 18)],[19,25,43,133,516,2190,7846,29165,112636,446857,1757436,7000271,28031720,108947800,426309421,1719146426,6897980052,],'bs',[2**x for x in range(1, 27)],[50,121,273,575,1212,2454,5071,10247,21056,43381,89581,178830,350552,714630,1435968,2947575,6626243,13425812,28535089,63281311,130760572,266446499,555216986,1165298233,2451760049,5129399310,],'g^',[2**x for x in range(1, 27)],[3107,3436,3528,4178,4463,5716,9053,14075,23985,46610,90261,182928,375804,773516,1548951,3183052,6790890,13302893,28564795,54395910,115254498,230636767,485562537,994380689,2014138826,4139904208,],'rP',[2**x for x in range(1, 18)],[21,30,61,164,621,2171,7500,27981,106363,409477,1614514,6504274,25448929,97955404,386774835,1546684601,6318127997,],'mD',[2**x for x in range(1, 29)],[23,36,55,111,94,200,487,1079,2426,5318,11570,24556,52518,110476,232480,494782,1131069,2398040,5156131,10878346,24320339,50478349,103136228,218268308,460644485,965136967,2024691585,4276447982,],'co',)
-plt.legend(['bubble_sort', 'merge_sort', 'quick_sort (random)', 'quick_sort (last)', 'std::sort', ])
+plt.plot([2**x for x in range(1, 18)],[19,25,47,139,555,2266,8055,30036,117243,462107,1819580,7302152,28571881,110585215,435226745,1737780129,6945333151,],'bs',[2**x for x in range(1, 27)],[49,122,266,574,1211,2470,4984,10123,20315,42368,86779,169826,346255,692727,1430196,2916419,6182955,13072386,27518058,60223011,124953106,257783501,536046927,1133882129,2378856509,4997284695,],'g^',[2**x for x in range(1, 27)],[3234,3584,4158,4197,5204,6139,8907,14411,26159,49904,97601,197093,406242,821798,1647121,3331489,6991679,13653849,28471749,57834585,118159948,248305668,505357180,1037153349,2131103743,4482136787,],'rP',[2**x for x in range(1, 16)],[24,39,76,192,610,2141,7752,28498,108825,418905,1659387,6708399,26240553,101445973,402091768,],'mD',[2**x for x in range(1, 28)],[23,35,60,110,101,229,546,1390,3291,7509,16251,34315,73013,154353,331749,702800,1481682,3371951,6829352,14330509,31422759,65266064,135847391,285517094,609077220,1259676403,2624766214,],'co',)
+plt.legend(['bubble_sort', 'merge_sort', 'quick_sort_rand', 'quick_sort_last', 'std::sort', ])
+plt.subplot(236)
+plt.xscale('log', base=2)
+plt.yscale('log', base=10)
+plt.gca().set_xticks(xloc)
+plt.gca().set_yticks(yloc)
+plt.grid(True)
+plt.xlabel('no. elements')
+plt.ylabel('nanoseconds')
+plt.title('filled with one element')
+plt.plot([2**x for x in range(1, 29)],[19,21,25,32,50,74,115,196,493,683,1349,2764,5535,11081,23202,45986,147965,272931,481495,858955,1859169,3395560,6316966,12484011,25198161,51250103,103625306,212024924,],'bs',[2**x for x in range(1, 27)],[49,119,263,557,1163,2401,4852,10036,20346,40990,83941,169158,342702,733480,1444929,2881186,5786648,14788883,28780156,60974988,124628713,258629941,537627863,1134171091,2379497180,4997159492,],'g^',[2**x for x in range(1, 16)],[3226,3510,3809,4000,5200,8410,16860,44384,151156,549684,2138393,8320591,32135258,121026699,477551803,],'rP',[2**x for x in range(1, 16)],[24,38,78,201,746,2525,8958,33402,128605,503287,1982973,7867757,30578913,119178403,472285791,],'mD',[2**x for x in range(1, 28)],[22,26,31,47,87,211,518,1226,2894,6525,14293,31220,69029,148636,318825,683713,1636821,3384078,7625884,16371228,34213701,73776279,154158006,328235192,693857515,1465175893,3087955974,],'co',)
+plt.legend(['bubble_sort', 'merge_sort', 'quick_sort_rand', 'quick_sort_last', 'std::sort', ])
 plt.show()
